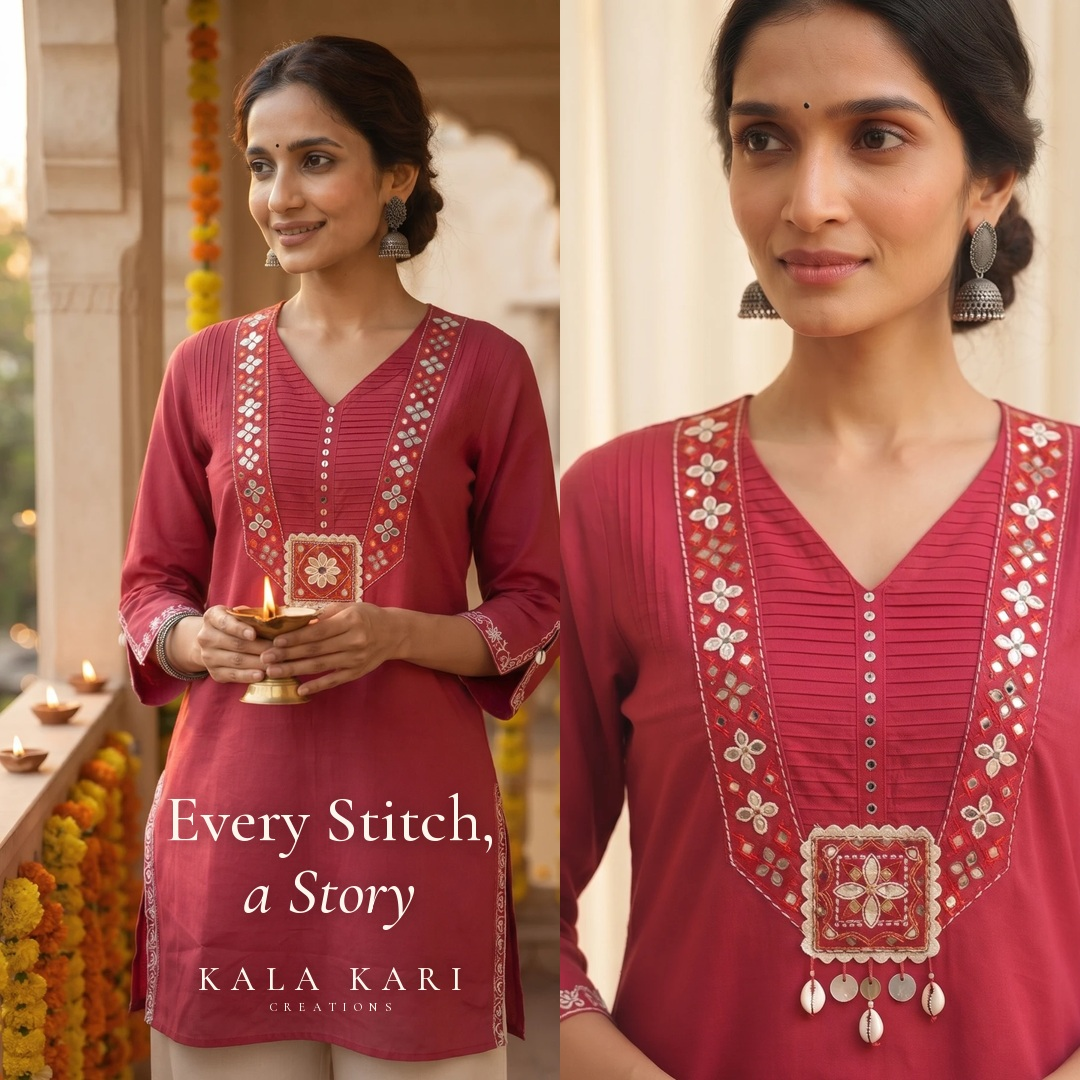
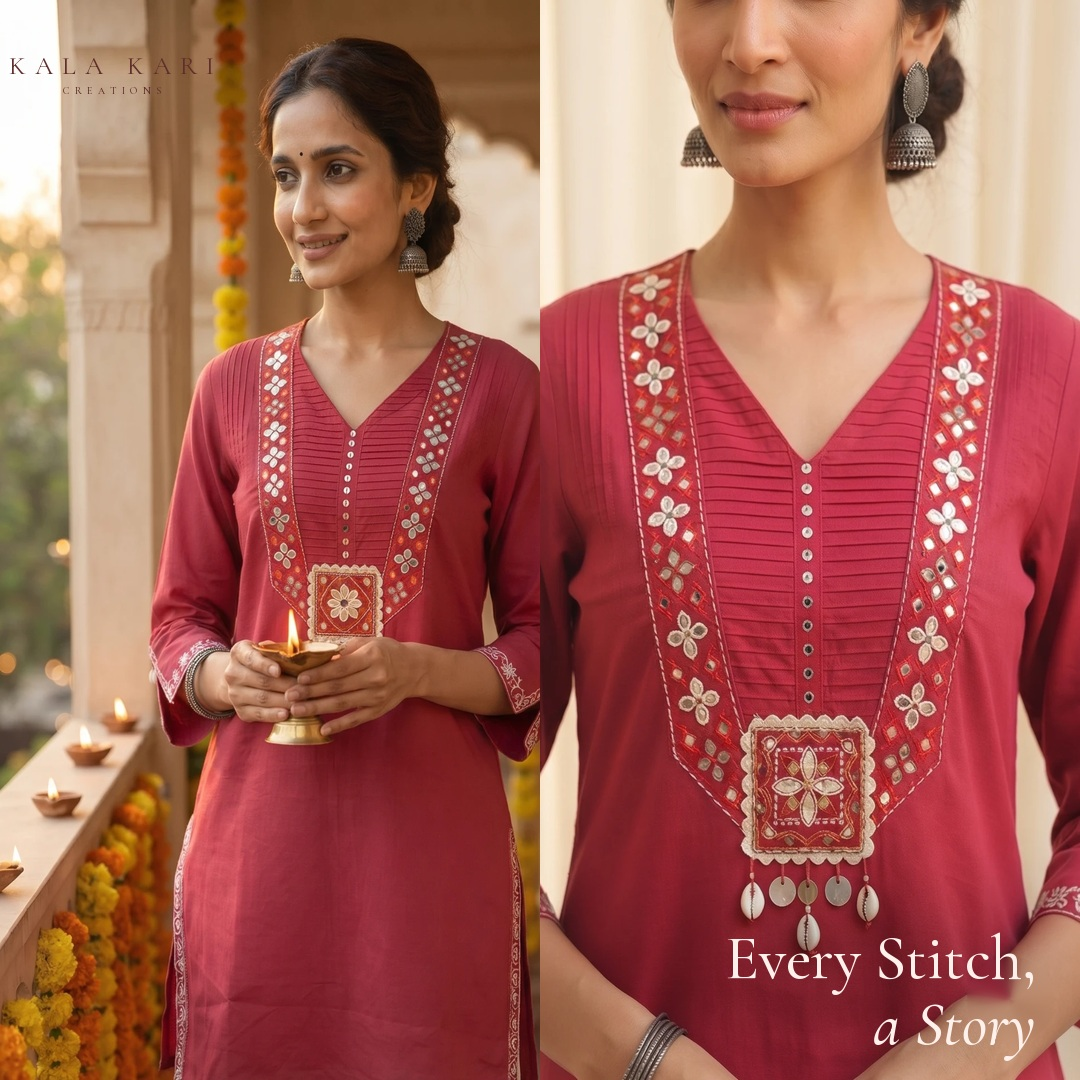
Everyday edit carousel: match reference tone, colours and placement
Claude-Session: https://claude.ai/code/session_01LZv7UTnsZcwjx4RXmrtg3u

diff --git a/marketing/posts/everyday_edit_carousel.py b/marketing/posts/everyday_edit_carousel.py
@@ -1,10 +1,19 @@
 #!/usr/bin/env python3
-"""3-slide square "everyday edit" carousel, laid out like the reference brand post: soft editorial photos with
-elegant serif text set in the photo's empty space, and the brand in widely spaced capitals.
-1. Model on the left. At the top right, a big italic headline, a small spaced-caps line, then the brand.
-2. Model on the right. A one-line serif sentence at the top left, and the brand at the middle left.
-3. Two photos of one product (full look | close-up). The brand at the top left, a headline at the bottom
-   right.
+"""3-slide square "everyday edit" carousel, matched to the reference brand post's tone and placement.
+
+The reference's rules:
+- Light blush-cream text (about #FEF0EC) only on mid-to-dark, muted parts of the photo. Slides 1 and 2 are
+  graded moody: darker and softer, with a soft extra dip in brightness behind the text.
+- Dark maroon text (about #602F2C) only on light parts (slide 3).
+- No glow or box behind the text: the contrast comes from the photo itself.
+- The type is an elegant italic or upright serif headline and a small spaced-caps sans line. The brand is
+  small, in widely spaced serif capitals with a smaller line under it.
+
+Layouts:
+1. Model on the left half; a centred text column on the right.
+2. Model right of centre; a two-line sentence at the top left and the brand at the middle left.
+3. Two photos of one product side by side: the brand at the top left on the light curtain, and the headline at
+   the bottom right on the light stone.
 
 Usage:
     python3 everyday_edit_carousel.py <fonts_dir> <photos_dir> <out_dir>
@@ -13,11 +22,12 @@ import glob
 import os
 import sys
 
-from PIL import Image, ImageDraw, ImageFilter, ImageFont
+import numpy as np
+from PIL import Image, ImageDraw, ImageEnhance, ImageFont
 
 S = 1080
-MAROON = (110, 30, 42)
-CREAM = (252, 246, 236)
+CREAM = (254, 240, 234)
+MAROON = (96, 47, 44)
 
 
 def font(fonts, fam, w, size, style="normal"):
@@ -25,88 +35,104 @@ def font(fonts, fam, w, size, style="normal"):
                                            f"{fam}-latin-{w}-{style}.woff2"), size)
 
 
-def load(d, key, w, h, fx=.5, fy=.5, trim=True):
+def crop(d, key, box, w, h):
+    """Crop box (fractions of the source: x0, y0, x1, y1) and resize to w x h."""
     im = Image.open(glob.glob(os.path.join(d, key + ".*"))[0]).convert("RGB")
-    if trim:                                   # keep the image generator's corner badge out of frame
-        im = im.crop((0, 0, int(im.width * .92), int(im.height * .92)))
-    s = max(w / im.width, h / im.height)
-    r = im.resize((int(im.width * s + .5), int(im.height * s + .5)), Image.LANCZOS)
-    x = int(min(max(r.width * fx - w / 2, 0), r.width - w))
-    y = int(min(max(r.height * fy - h / 2, 0), r.height - h))
-    return r.crop((x, y, x + w, y + h)).convert("RGBA")
+    x0, y0, x1, y1 = box
+    return im.crop((int(x0 * im.width), int(y0 * im.height), int(x1 * im.width), int(y1 * im.height))) \
+        .resize((w, h), Image.LANCZOS)
 
 
-def spaced(d, xy, s, f, fill, spacing, anchor="l"):
+def moody(im, bright=.8, sat=.88):
+    """The reference's soft, slightly dim, warm grade."""
+    im = ImageEnhance.Brightness(im).enhance(bright)
+    im = ImageEnhance.Color(im).enhance(sat)
+    a = np.asarray(im).astype(np.float32)
+    a[..., 0] *= 1.03
+    a[..., 2] *= .96
+    return Image.fromarray(np.clip(a, 0, 255).astype(np.uint8))
+
+
+def dip(im, cx, cy, rx, ry, strength):
+    """Soft elliptical darkening behind a text block (feathered, so it reads as light falloff, not a box)."""
+    y, x = np.mgrid[0:im.height, 0:im.width].astype(np.float32)
+    r = np.sqrt(((x - cx) / rx) ** 2 + ((y - cy) / ry) ** 2)
+    k = 1 - strength * np.clip(1.25 - r, 0, 1) ** 1.5
+    a = np.asarray(im).astype(np.float32) * k[..., None]
+    return Image.fromarray(np.clip(a, 0, 255).astype(np.uint8))
+
+
+def spaced(d, xy, s, f, fill, spacing, anchor="m"):
     widths = [d.textlength(c, font=f) for c in s]
     total = sum(widths) + spacing * (len(s) - 1)
     x, y = xy
     if anchor == "m":
         x -= total / 2
-    elif anchor == "r":
-        x -= total
     for c, w in zip(s, widths):
         d.text((x, y), c, font=f, fill=fill, anchor="ls")
         x += w + spacing
-    return total
 
 
-def text_on(img, draw_fn, fill, glow):
-    """Draw text with a soft glow behind it (a light glow for dark text, a dark one for light text)."""
-    lay = Image.new("RGBA", img.size, (0, 0, 0, 0))
-    draw_fn(ImageDraw.Draw(lay), glow + (150,))
-    img.alpha_composite(lay.filter(ImageFilter.GaussianBlur(9)))
-    lay = Image.new("RGBA", img.size, (0, 0, 0, 0))
-    draw_fn(ImageDraw.Draw(lay), fill + (255,))
-    img.alpha_composite(lay)
-
-
-def brand(d, x, y, fonts, fill, anchor="l", size=56):
-    spaced(d, (x, y), "KALA KARI", font(fonts, "cormorant-garamond", 500, size), fill, size * .32, anchor)
-    spaced(d, (x + (0 if anchor != "l" else size * .06), y + size * .62), "CREATIONS",
-           font(fonts, "cormorant-garamond", 500, int(size * .38)), fill, size * .2, anchor)
+def brand(d, cx, y, fonts, fill, size):
+    spaced(d, (cx, y), "KALA KARI", font(fonts, "cormorant-garamond", 400, size), fill, size * .34)
+    spaced(d, (cx, y + size * .78), "CREATIONS", font(fonts, "cormorant-garamond", 500, int(size * .42)), fill,
+           size * .2)
 
 
 def slide1(fonts, ph):
-    img = load(ph, "1-ajrakh-seated", S, S, fx=1.0, fy=.5, trim=False)   # model to the left
-    cx = 830
-
-    def draw(d, col):
-        f = font(fonts, "cormorant-garamond", 500, 74, "italic")
-        d.text((cx, 150), "Made by Hand,", font=f, fill=col, anchor="ms")
-        d.text((cx, 228), "Made for You", font=f, fill=col, anchor="ms")
-        spaced(d, (cx, 286), "HANDCRAFTED ETHNICWEAR", font(fonts, "jost", 400, 19), col, 3.5, "m")
-        spaced(d, (cx, 316), "FOR EVERY DAY", font(fonts, "jost", 400, 19), col, 3.5, "m")
-        brand(d, cx, 420, fonts, col, "m", 44)
-    text_on(img, draw, MAROON, (255, 252, 246))
+    # landscape photo: square crop with the model on the left half
+    im = crop(ph, "1-ajrakh-seated", (.335, 0, 1.0, 1.0), S, S)
+    im = moody(im, .78)
+    im = dip(im, 850, 330, 330, 360, .5)
+    img = im.convert("RGBA")
+    d = ImageDraw.Draw(img)
+    cx = 852
+    f = font(fonts, "cormorant-garamond", 500, 80, "italic")
+    d.text((cx, 150), "Made by Hand,", font=f, fill=CREAM, anchor="ms")
+    d.text((cx, 236), "Made for You", font=f, fill=CREAM, anchor="ms")
+    fs = font(fonts, "jost", 400, 21)
+    spaced(d, (cx, 306), "HANDCRAFTED ETHNICWEAR", fs, CREAM, 4)
+    spaced(d, (cx, 342), "FOR EVERY DAY", fs, CREAM, 4)
+    brand(d, cx, 500, fonts, CREAM, 46)
     return img
 
 
 def slide2(fonts, ph):
-    img = load(ph, "2-pink-anarkali", S, S, fx=.4, fy=.42)
-
-    def draw(d, col):
-        f = font(fonts, "cormorant-garamond", 600, 44)
-        d.text((44, 80), "Easy elegance,", font=f, fill=col, anchor="ls")
-        d.text((44, 130), "from morning to evening.", font=f, fill=col, anchor="ls")
-        brand(d, 46, 230, fonts, col, "l", 38)
-    text_on(img, draw, MAROON, (255, 250, 246))
+    # portrait photo: a square from the top-left part puts the model right of centre
+    im = crop(ph, "2-pink-anarkali", (0, .02, .84, .65), S, S)
+    im = moody(im, .74, .85)
+    im = dip(im, 250, 180, 480, 330, .55)
+    im = dip(im, 230, 560, 300, 160, .45)
+    img = im.convert("RGBA")
+    d = ImageDraw.Draw(img)
+    f = font(fonts, "cormorant-garamond", 500, 50)
+    d.text((54, 112), "Easy elegance,", font=f, fill=CREAM, anchor="ls")
+    d.text((54, 170), "from morning to evening.", font=f, fill=CREAM, anchor="ls")
+    brand(d, 248, 548, fonts, CREAM, 44)
     return img
 
 
 def slide3(fonts, ph):
-    img = Image.new("RGBA", (S, S), CREAM + (255,))
-    left = load(ph, "3a-red-kurta-full", 560, S, fx=.5, fy=.45)
-    right = load(ph, "3b-red-kurta-closeup", 520, S, fx=.5, fy=.5)
-    img.alpha_composite(left, (0, 0))
-    img.alpha_composite(right, (560, 0))
-
-    def bottom(d, col):                  # on the plain red hem of the full-length photo, clear of her face
-        cx = 330
-        d.text((cx, 840), "Every Stitch,", font=font(fonts, "cormorant-garamond", 500, 66), fill=col, anchor="ms")
-        d.text((cx, 912), "a Story", font=font(fonts, "cormorant-garamond", 500, 66, "italic"), fill=col,
-               anchor="ms")
-        brand(d, cx, 990, fonts, col, "m", 34)
-    text_on(img, bottom, CREAM, (60, 10, 18))
+    # As in the reference: full look on the left (its pale arch at the top left takes the brand), close-up on
+    # the right (its plain red lower kurta at the bottom right takes the cream headline).
+    import cv2
+    img = Image.new("RGBA", (S, S))
+    left = crop(ph, "3a-red-kurta-full", (.10, 0, .74, .87), 540, S)
+    right = crop(ph, "3b-red-kurta-closeup", (.20, .14, .84, .99), 540, S)
+    # paint out the image generator's corner badge on the close-up (bottom right)
+    a = cv2.cvtColor(np.asarray(right), cv2.COLOR_RGB2BGR)
+    m = np.zeros(a.shape[:2], np.uint8)
+    cv2.circle(m, (470, 1000), 44, 255, -1)
+    right = Image.fromarray(cv2.cvtColor(cv2.inpaint(a, m, 9, cv2.INPAINT_TELEA), cv2.COLOR_BGR2RGB))
+    right = dip(right, 330, 975, 300, 130, .25)
+    img.paste(left, (0, 0))
+    img.paste(right, (540, 0))
+    d = ImageDraw.Draw(img)
+    brand(d, 112, 74, fonts, MAROON, 26)
+    d.text((S - 44, 978), "Every Stitch,", font=font(fonts, "cormorant-garamond", 500, 62), fill=CREAM,
+           anchor="rs")
+    d.text((S - 44, 1044), "a Story", font=font(fonts, "cormorant-garamond", 500, 62, "italic"), fill=CREAM,
+           anchor="rs")
     return img
 
 
